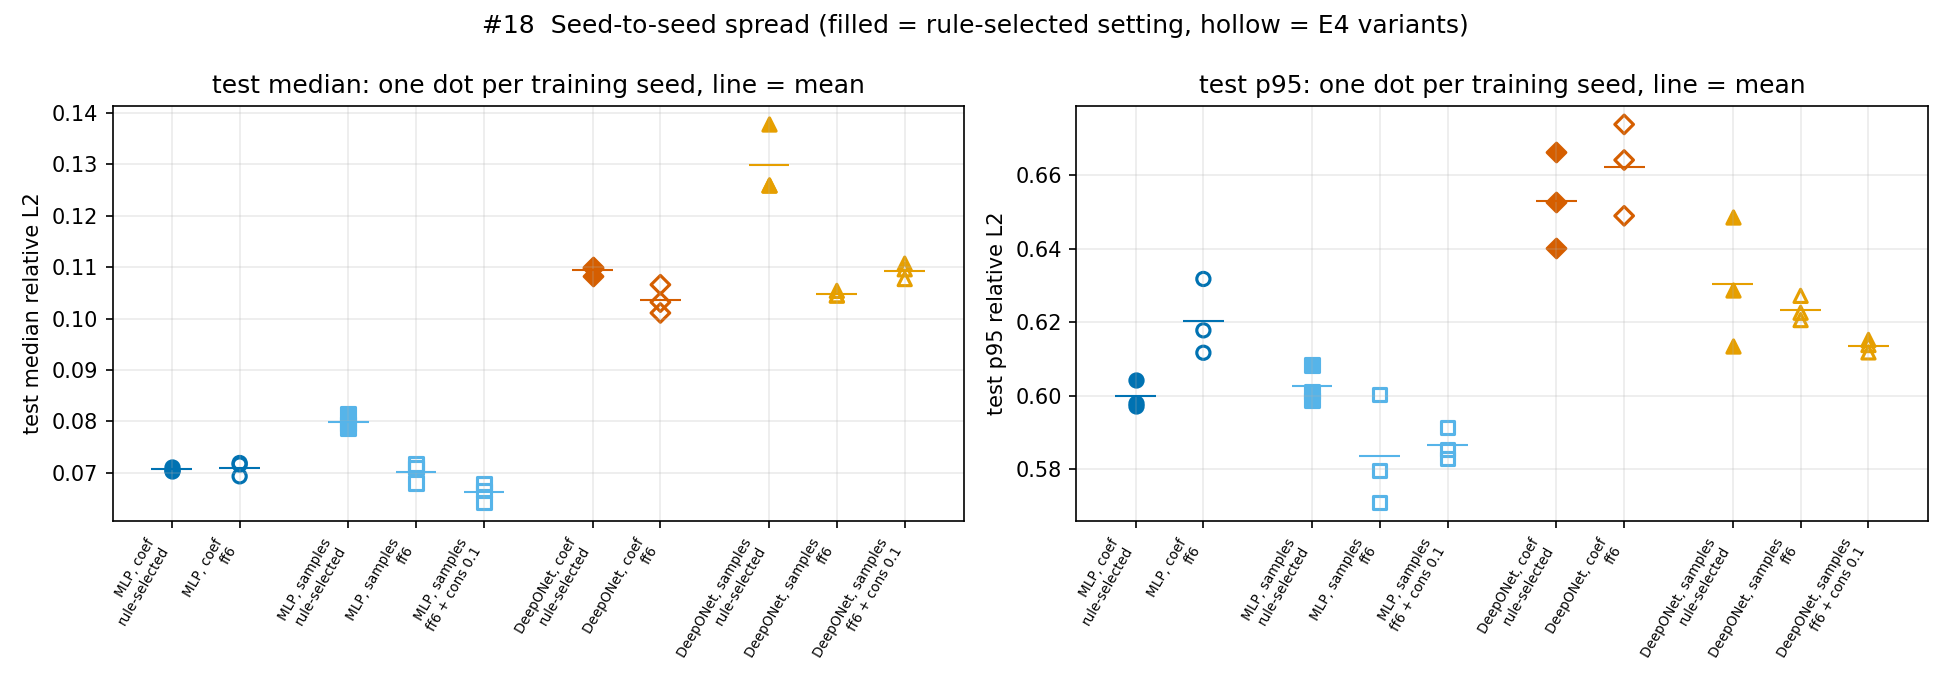
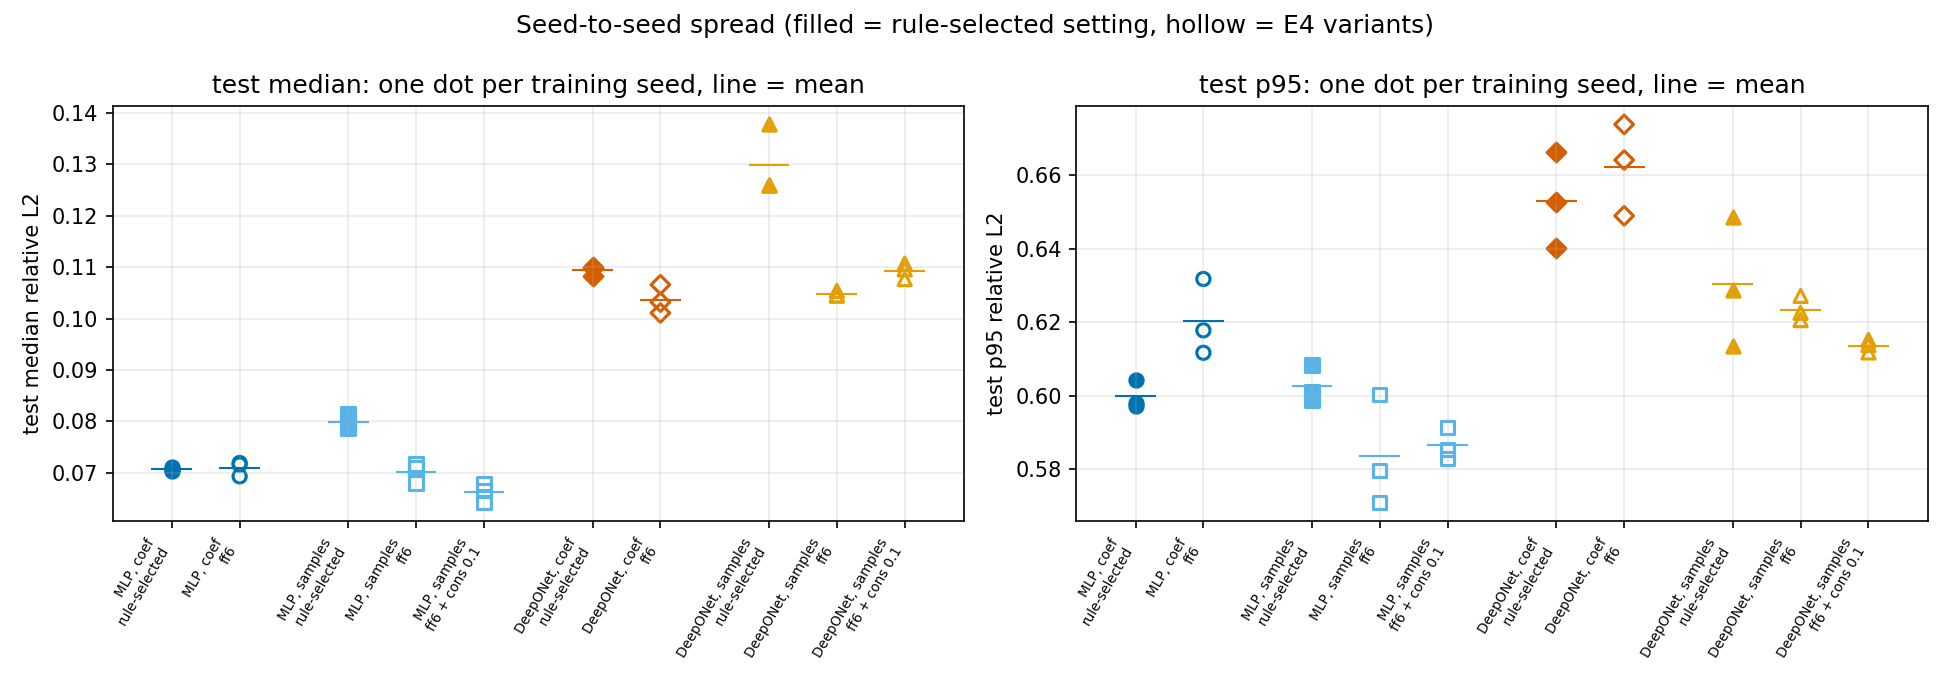
Fix report figures: OOD panel titles, pareto labels, energy legend, title prefixes
- final_ood_degradation: wrap the (a)-(c) panel titles so they no longer overlap
- bench_pareto: label every other solve_ivp tolerance, offset to the right
- solver_energy: move the panel (b) legend below the axes, off the curves
- drop the FIGURE_PLAN "#n" / "E4" / "W2" prefixes from figure titles
- figures regenerated; final_analysis.md byte-identical, no number changed
- FIGURE_PLAN defects table marked fixed; AI_LOG row 54

Changed region(s): [[0.2462, 0.0, 0.7692, 0.0609]]

diff --git a/scripts/final_analysis.py b/scripts/final_analysis.py
@@ -183,7 +183,7 @@ def fig_seeds(variants, L):
         a.set_ylabel(f"test {key} relative L2")
         a.set_title(f"test {key}: one dot per training seed, line = mean")
         style(a)
-    fig.suptitle("#18  Seed-to-seed spread (filled = rule-selected setting, hollow = E4 variants)")
+    fig.suptitle("Seed-to-seed spread (filled = rule-selected setting, hollow = E4 variants)")
     save(fig, "final_seeds.png")
 
 
@@ -230,7 +230,7 @@ def fig_e4(agg_rows, runs, L):
         a.set_title(f"validation {title}")
         style(a)
     ax[3].set_yscale("log")
-    fig.suptitle("E4  Equal-effort improvements, available to both families (validation, n = 1500)")
+    fig.suptitle("Equal-effort improvements, available to both families (validation, n = 1500)")
     save(fig, "e4_variants.png")
     L.append("")
 
@@ -261,7 +261,7 @@ def fig_datasize(runs, L):
         a.legend(frameon=False, fontsize=8)
     ax[0].set_title("median: falls ~4x from 500 to 7000, still falling")
     ax[1].set_title("p95: falls far more slowly (the spinning tail)")
-    fig.suptitle("E4  Learning curve: each model at its own lr 1e-3 cosine setting, one seed")
+    fig.suptitle("Learning curve: each model at its own lr 1e-3 cosine setting, one seed")
     save(fig, "e4_datasize.png")
     L += ["", "p95 at the same n: " + "; ".join(p95s) + ".", "",
           "The median falls roughly as n^-0.5 with no sign of saturation at 7000, so more data would still help the typical "
@@ -296,7 +296,7 @@ def fig_psweep(runs, L):
         a.set_title(t)
         style(a)
         a.legend(frameon=False, fontsize=8)
-    fig.suptitle("W2  Is p = 64 a sensible choice?  One seed per point: differences under ~0.005 are within seed noise")
+    fig.suptitle("Is p = 64 a sensible choice?  One seed per point: differences under ~0.005 are within seed noise")
     save(fig, "e4_psweep.png")
     L += ["", "Seed noise on val loss for this model is about 0.003 (3 seeds at p = 64), so only p = 8 (and p = 256 at equal "
           "budget, where width falls to 71) are clearly worse; p from 16 to 128 is a plateau. p = 32 has the lowest val loss "
@@ -347,7 +347,7 @@ def fig_consistency(ps, d, L):
     ax[1].set_title(f"(b) test #{i}: the two velocity estimates of one network")
     style(ax[1])
     ax[1].legend(frameon=False, fontsize=6.5)
-    fig.suptitle("#14  Physical consistency is not in the data loss: DeepONets are more self-consistent; a penalty term "
+    fig.suptitle("Physical consistency is not in the data loss: DeepONets are more self-consistent; a penalty term "
                  "(dashed) closes the gap for both")
     save(fig, "final_consistency.png")
     L.append("")
@@ -382,7 +382,7 @@ def fig_ood(ps, d, fe, L):
     ax[0].text(3, 0.012, "training range", ha="center", fontsize=8, color="#006b4f")
     ax[0].set_xlabel("peak |tau| over both joints [N m]  (test, then ood_amp1, ood_amp2)")
     ax[0].set_ylabel("per-sample relative L2  (dotted: p95)")
-    ax[0].set_title("(a) amplitude: error rises inside the range, ~doubles past the edge, then saturates")
+    ax[0].set_title("(a) amplitude: error rises inside the range,\n~doubles past the edge, then saturates", fontsize=10)
     style(ax[0], "y")
     ax[0].legend(frameon=False, fontsize=7)
 
@@ -395,7 +395,7 @@ def fig_ood(ps, d, fe, L):
     ax[1].scatter(pk_ood, ps[f"{tag}|ood|err"], s=12, color="#D55E00", alpha=0.8, lw=0, label="ood (m_p 1-1.5, b 0.5-0.8)")
     ax[1].set_xlabel("peak |q| of the true trajectory [rad]")
     ax[1].set_ylabel("per-sample relative L2")
-    ax[1].set_title(f"(b) {MODELS[tag][0]}: OOD m_p, b errors match in-range errors of the same size")
+    ax[1].set_title(f"(b) {MODELS[tag][0]}: OOD m_p, b errors match\nin-range errors of the same size", fontsize=10)
     style(ax[1], "x")
     ax[1].set_yscale("log")
     ax[1].legend(frameon=False, fontsize=8)
@@ -427,10 +427,10 @@ def fig_ood(ps, d, fe, L):
     ax[2].plot([], [], color="#222222", ls=":", label="same model on test")
     ax[2].set_xticks(x, ["MLP", "DeepONet"])
     ax[2].set_ylabel("ood_smooth median relative L2 (3 seeds)")
-    ax[2].set_title("(c) rougher torque (13 modes): sampled input generalises better")
+    ax[2].set_title("(c) rougher torque (13 modes):\nsampled input generalises better", fontsize=10)
     style(ax[2])
     ax[2].legend(frameon=False, fontsize=8)
-    fig.suptitle("#15  Out of range is a degradation curve, not a pass / fail")
+    fig.suptitle("Out of range is a degradation curve, not a pass / fail")
     save(fig, "final_ood_degradation.png")
 
 
@@ -549,8 +549,9 @@ def fig_bench(L):
     ax.plot(ms, [v["median_err"] for v in ok.values()], "o-", color="#555555", lw=1.5, label="solve_ivp RK45: median")
     ax.plot(ms, [v["p95_err"] if np.isfinite(v["p95_err"]) else np.nan for v in ok.values()], "o:", color="#555555",
             mfc="none", lw=1, label="solve_ivp RK45: p95")
-    for k, v in ok.items():
-        ax.annotate(f"rtol {k}", (v["ms"], v["median_err"]), fontsize=6.5, xytext=(4, -9), textcoords="offset points")
+    for k, v in ok.items():   # label every other tolerance: the loose ones sit within ~1 ms of each other
+        if float(k) in (0.1, 0.06, 0.03, 0.01, 1e-3, 1e-4, 1e-6):
+            ax.annotate(f"rtol {k}", (v["ms"], v["median_err"]), fontsize=6.5, xytext=(7, -3), textcoords="offset points")
     for r in rows:
         label, _, c, m = colours[f"{r['model']}/{r['input']}"]
         ax.plot(r["ms_b64_best"], r["median_err"], marker=m, color=c, ms=9, ls="none", label=f"{label}: median")
@@ -570,7 +571,7 @@ def fig_bench(L):
     ax.set_yscale("log")
     ax.set_xlabel("milliseconds per trajectory (surrogates: batch 64, fastest variant; solve_ivp: one at a time)")
     ax.set_ylabel("relative L2 vs stored truth (filled: median, hollow: p95)")
-    ax.set_title("#16  Accuracy vs cost on 64 validation trajectories")
+    ax.set_title("Accuracy vs cost on 64 validation trajectories")
     ax.legend(frameon=False, fontsize=7, loc="lower left")
     save(fig, "bench_pareto.png")
 

diff --git a/scripts/solver_figures.py b/scripts/solver_figures.py
@@ -93,7 +93,7 @@ def convergence(d, lines):
     for a in ax:
         a.grid(alpha=0.25, which="both")
         a.legend(frameon=False, fontsize=8)
-    fig.suptitle("#2  RK4 global error: slope 4 (16x per halving) once h is in the asymptotic range")
+    fig.suptitle("RK4 global error: slope 4 (16x per halving) once h is in the asymptotic range")
     fig.tight_layout()
     fig.savefig(RESULTS / "solver_convergence.png", dpi=150)
     plt.close(fig)
@@ -160,13 +160,13 @@ def energy_checks(d, lines):
     ax[1].set_title(f"(b) balance on test sample #{i} (b = {pb.b:.2f}, m_p = {pb.m_p:.2f})")
     h1, l1 = ax[1].get_legend_handles_labels()
     h2, l2 = ax2.get_legend_handles_labels()
-    ax[1].legend(h1 + h2, l1 + l2, frameon=False, fontsize=7, loc="upper left")
+    ax[1].legend(h1 + h2, l1 + l2, frameon=False, fontsize=7, ncol=2, loc="upper center", bbox_to_anchor=(0.5, -0.13))
     for a in ax:
         a.grid(alpha=0.25, which="both")
     ax[0].legend(frameon=False, fontsize=8)
-    fig.suptitle("#3  Raw energy is conserved only without torque and friction; with them the BALANCE dE/dt = tau.qdot - b|qdot|^2 holds")
+    fig.suptitle("Raw energy is conserved only without torque and friction; with them the BALANCE dE/dt = tau.qdot - b|qdot|^2 holds")
     fig.tight_layout()
-    fig.savefig(RESULTS / "solver_energy.png", dpi=150)
+    fig.savefig(RESULTS / "solver_energy.png", dpi=150, bbox_inches="tight")
     plt.close(fig)
     lines += [f"(b) test sample #{i}: energy swing {np.ptp(E):.2f} J; max |balance residual| {np.abs(res_fine).max():.1e} J "
               f"with the trapezoid rule on the 2.5 ms step, {np.abs(res_grid).max():.1e} J on the 20 ms output grid. The second "
@@ -201,7 +201,7 @@ def label_accuracy(d, lines):
         lines.append(f"| {split} #{i} ({name}) | {pk:.1f} | {rel:.1e} | " + ", ".join(f"{x:.1e}" for x in err.max(0)) + " |")
     ax[0].set_ylabel("|label - DOP853| (rad or rad/s)")
     ax[0].legend(frameon=False, fontsize=8)
-    fig.suptitle("#4  Label error (RK4, h = 2.5 ms) vs a tight DOP853 reference: tiny when calm, grows on spinning trajectories, "
+    fig.suptitle("Label error (RK4, h = 2.5 ms) vs a tight DOP853 reference: tiny when calm, grows on spinning trajectories, "
                  "below every surrogate error on the same set")
     fig.tight_layout()
     fig.savefig(RESULTS / "solver_vs_dop853.png", dpi=150)

diff --git a/AI_LOG.md b/AI_LOG.md
@@ -136,6 +136,7 @@ Found by reading `git log --since=2026-10-12 --stat` and `git status`. Dates are
 | 51 | Asked for in `docs/AI_LOG_PROMPT.md` (2026-10-14) but never logged: pdoc HTML in `docs/html/` (generated API docs); 23 docstring lines in `src/viz.py` and 2 in `src/train.py` (commit `bf828a9`); `psutil` added to `requirements.txt` (used by `scripts/run_benchmark.py` for the CPU-load banner); `.gitignore` entries for `.vscode/` and the workshop PDFs | **High** (generated or boilerplate). The two `train.py` docstrings touch a crucial module but change no logic. | Documentation the brief asks for [confirm] | [fill in] | The 2026-10-14 HTML was out of date with the code after rows 36 to 43 (for example `src/demo.py` had no page); it is being regenerated by the session in row 52. | [fill in] |
 | 52 | 2026-10-22, **in progress, uncommitted** when this row was written (another AI session working in parallel with the one writing this log): edits to `README.md` (status, layout, reproduce commands, timing limitation), `docs/DESIGN_LOG.md` (new section F "status of every decision", updated A4 comparison table and W1 to W10 status column, says "AI-written from the repo"), `docs/EXPERIMENTS.md`, `docs/FIGURE_PLAN.md`, `docs/RESULTS_SUMMARY.md`, `docs/START_HERE.md`, new `docs/PROJECT_OVERVIEW.md`, pdoc HTML regenerated (`docs/html/src/demo.html` new). Completed by that session: also a status banner on `docs/REVIEW_NOTES.md` (what happened to each 2026-10-12 finding), `docs/STUDY_GUIDE.md` (5b line numbers re-checked against `src/train.py`, "AI-written version exists" notes on the self-check boxes, new section 8 with 24 rehearsal questions and no answers), `docs/START_HERE.md` rewritten as reading order + doc status + open items, `docs/DeepONet_Project_Explained.pdf` marked superseded (not deleted) | **High.** All text by AI. The DESIGN_LOG "My own words" cells, STUDY_GUIDE answers and every box tick were left alone; no code, results or figures changed. | Get every doc consistent with the code and results before the report and the interview (request: "check that all the docs are up to date") | [fill in] | Concurrent AI edits to the same files happened before (rows 28, 30). Check the DESIGN_LOG W-status column ("DONE", "PARTLY DONE") yourself: it is an AI judgement of your design decisions. AI side: numbers in README, RESULTS_SUMMARY and PROJECT_OVERVIEW compared against `final_eval.md`, `benchmark.md`, `final_analysis.md`, `solver_checks.md`, `mutation_check.md`, `test_report.xml`; test names compared against `tests/`. Stale items found: START_HERE (2026-10-12 state), the explainer PDF (sine family, 2,200 trajectories, no results), README timing caveat (still B1), RESULTS_SUMMARY "115 tests" and "arm schematic to make", EXPERIMENTS "Not yet run" (benchmark rerun already done), DESIGN_LOG W1 to W10 all "OPEN", STUDY_GUIDE "`test_solvers.py` does not exist" and old line numbers. First draft of a STUDY_GUIDE note called the arm order test's sample "calm"; the test uses a hand-picked mild sample (`MILD`), corrected. Not fixed (figures, not docs): `final_ood_degradation.png` title overlap and `bench_pareto.png` label collisions, now listed in FIGURE_PLAN. | [fill in] |
 | 53 | 2026-10-22, this session: AI_LOG upkeep. Added rows 46 to 52, corrected stale items (rows 27, 29, 31, 34, 36, 37, 40, 45 and the row 34 correction note), counted rows by level and area for report section 7, and asked interview questions for the `[fill in]` cells. The reflection bullets are drafted only from my answers | **High** for the AI-side columns and the counts; **none** for "Checked how", "My decision" and the reflection content | Find unlogged AI work and stale numbers before the report deadline | [fill in] | The request said the loss-curve move was uncommitted; git shows it was committed (`c161e2a`). | [fill in] |
+| 54 | 2026-10-22 evening: figure fixes from FIGURE_PLAN 'Figure defects'. `scripts/final_analysis.py` (OOD panel titles wrapped, pareto labels thinned, "#n"/"E4"/"W2" title prefixes dropped) and `scripts/solver_figures.py` (prefixes dropped, energy legend moved below panel (b)); both rerun. In `report/MMA3001_Report_DRAFT.docx` (git-ignored) the 8 changed images were swapped in place, matched by hash to the old PNGs, and two stale grey notes removed; the text was not touched; backup in the AI's scratchpad | **High** (plotting only, assistant mode) | Leave report day for writing | AI side: `final_analysis.md` byte-identical after the rerun, `solver_checks.md` line endings only; each fixed figure looked at; docx re-exported through Word (10 pages) and the pages with the swapped figures inspected. [Me: fill in] | First move of the energy legend (lower left, boxed) hid part of the energy curve; moved below the panel instead. | [fill in] |
 
 ---
 

diff --git a/docs/FIGURE_PLAN.md b/docs/FIGURE_PLAN.md
@@ -36,16 +36,17 @@ Colour convention: MLP coef `#0072B2`, MLP samples `#56B4E9`, DeepONet coef `#D5
 `#E69F00` (colour-blind safe, Okabe-Ito); data figures use train `#0072B2`, OOD `#D55E00`, val `#009E73`,
 test `#CC79A7`.
 
-## Known figure defects (found 2026-10-22, AI_LOG row 45; not yet fixed)
+## Figure defects found 2026-10-22 (AI_LOG row 45), fixed the same evening (AI_LOG row 54)
 
-| Figure | Problem | Fix |
+| Figure | Problem | Fix applied |
 |---|---|---|
-| `final_ood_degradation.png` (#15) | panel titles (a) and (b) run into each other | shorten the titles in `scripts/final_analysis.py` (line ~433 onwards) or wrap them, then rerun `python -m scripts.final_analysis` |
-| `bench_pareto.png` (#16) | the `rtol 0.03 / 0.04 / 0.05 / 0.06` labels overlap | label only a few tolerances, or offset the labels |
-| #2, #3, #4, #14, #15, #16, #18 | titles start with this plan's numbers ("#15 ...") and some are full sentences | drop the "#n" prefix and keep the claim for the caption, or crop in the report |
+| `final_ood_degradation.png` (#15) | panel titles (a) and (b) ran into each other | titles wrapped onto two lines, font 10 |
+| `bench_pareto.png` (#16) | the `rtol 0.03 / 0.04 / 0.05 / 0.06` labels overlapped | only 0.1, 0.06, 0.03, 0.01, 1e-3, 1e-4, 1e-6 labelled, offset to the right |
+| `solver_energy.png` (#3) | panel (b) legend sat on the curves | legend moved below the panel |
+| #2, #3, #4, #14, #15, #16, #18, E4, W2 figures | titles started with this plan's numbers ("#15 ...") | prefix dropped; the claim sentences are kept (crop or shorten in the report if wanted) |
 
-Rerunning `scripts/final_analysis.py` rewrites `results/final_analysis.md` and the figures from the same
-checkpoints, so the numbers do not change; check the diff of the `.md` afterwards to confirm.
+Both scripts were rerun (`final_analysis` from its cache); `results/final_analysis.md` is byte-identical and
+`results/solver_checks.md` changed only in line endings, so no number moved.
 
 Tables: (a) parameter ranges (README), (b) results (`results/final_eval.md`, `final_analysis.md`),
 (c) test report (`results/test_report.xml`), (d) mutation check (`results/mutation_check.md`), (e) AI-use
